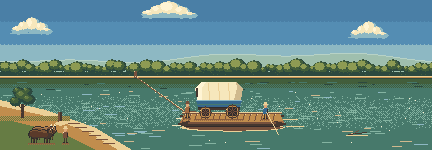
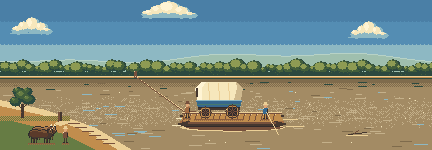
Kansas River: yellow-brown turbid water, per Palmer and Fremont
Palmer (1845) calls the Kaw a muddy stream and Fremont (1842) a yellow
turbid current. New silt palette colours keep the water darker and
cooler than the sand banks; ferry crossings use the same colour.

Claude-Session: https://claude.ai/code/session_01VHwNTXv46JWymhBPfyHmxz

diff --git a/docs/CLAUDE_HANDOFF.md b/docs/CLAUDE_HANDOFF.md
@@ -30,7 +30,7 @@ Last updated October 23, 2026, after merged PR #34 (UI readability). Sections be
 
 ## Scene redos, round 3
 
-- Spencer asked which scenes still needed work. Redone: Courthouse and Jail Rocks and Scotts Bluff (new `K.butte` kit helper: eroded clay/sandstone buttes with domed crowns, gullied walls and aprons; the Scotts Bluff road bends south to Robidoux Pass, correct for 1848), Kansas River (silty green water instead of tan, irregular gallery forest), Platte and South Platte (braided channels on a sand bed instead of stripe patterns), Fort Boise (corner-on adobe square, bastion with HBC ensign added to `scene_ambience.json`, meandering Boise mouth), Grande Ronde (seen from the steep descent) and Blue Mountains (road climbing into heavy timber, doubled team).
+- Spencer asked which scenes still needed work. Redone: Courthouse and Jail Rocks and Scotts Bluff (new `K.butte` kit helper: eroded clay/sandstone buttes with domed crowns, gullied walls and aprons; the Scotts Bluff road bends south to Robidoux Pass, correct for 1848), Kansas River (yellow-brown turbid water, darker and set apart from the sand, per Palmer "a muddy stream" and Fremont "yellow turbid current"; ferry crossings use the same colour; irregular gallery forest), Platte and South Platte (braided channels on a sand bed instead of stripe patterns), Fort Boise (corner-on adobe square, bastion with HBC ensign added to `scene_ambience.json`, meandering Boise mouth), Grande Ronde (seen from the steep descent) and Blue Mountains (road climbing into heavy timber, doubled team).
 - De-templated: the repeated two clouds and the bottom-left wagon are gone from Barlow Pass, Eagle Creek, Elm Grove, Forts Bridger/Hall/Kearny/Laramie, Laurel Hill and Oregon City.
 
 ## Trading time and the post store (PR #33)
